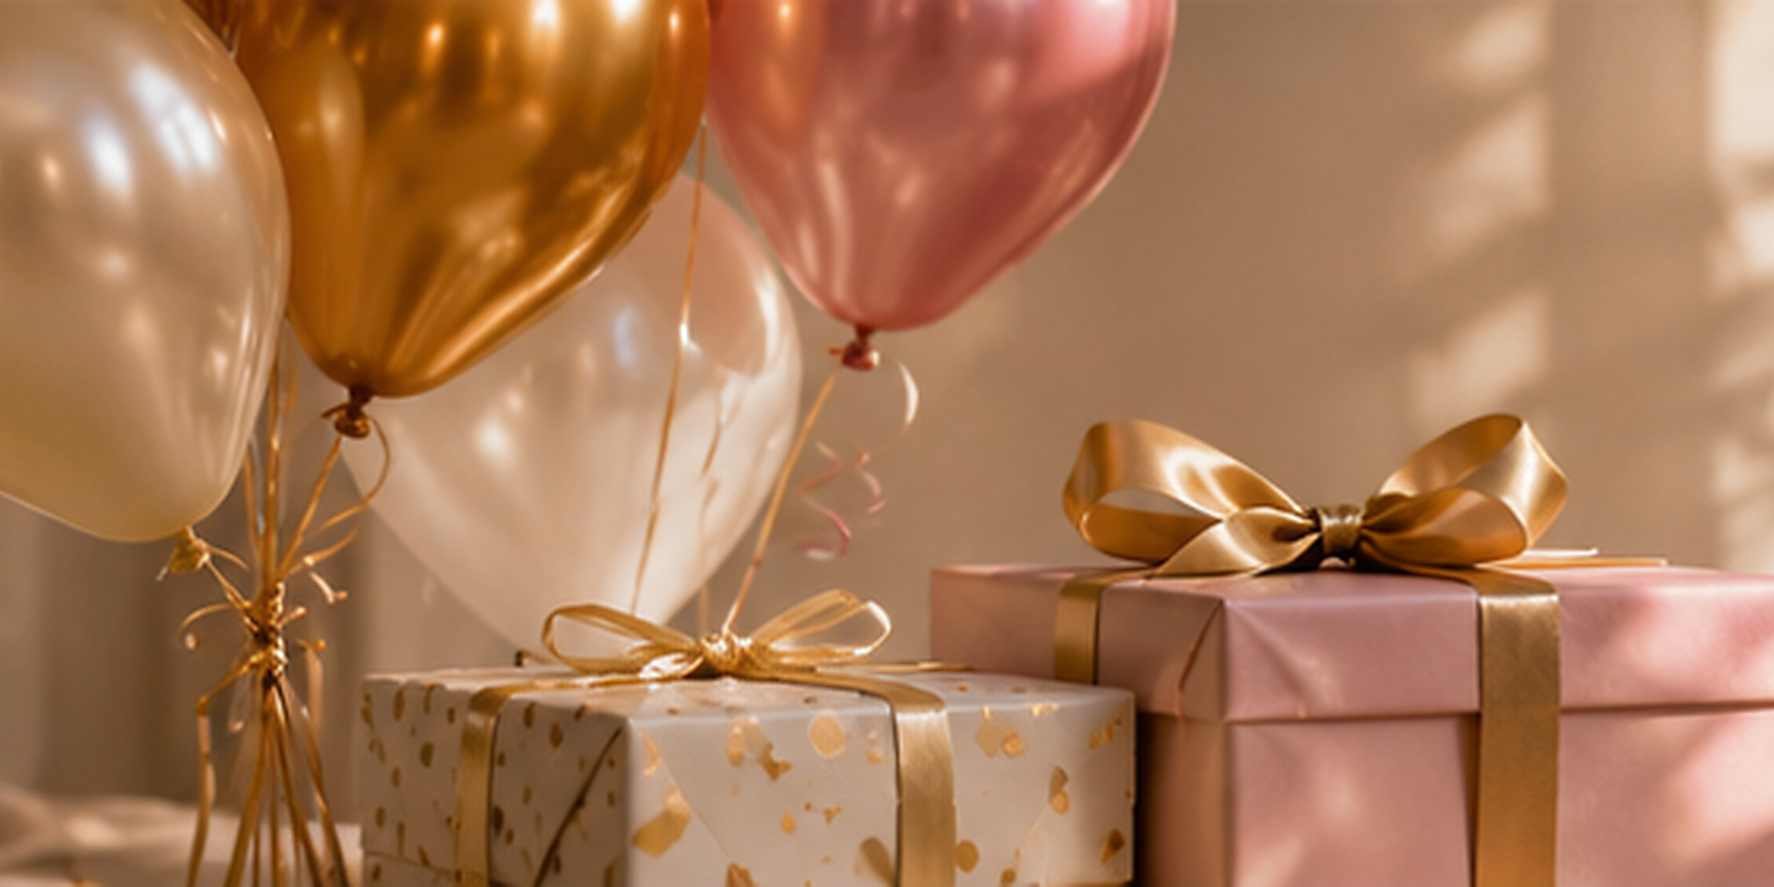
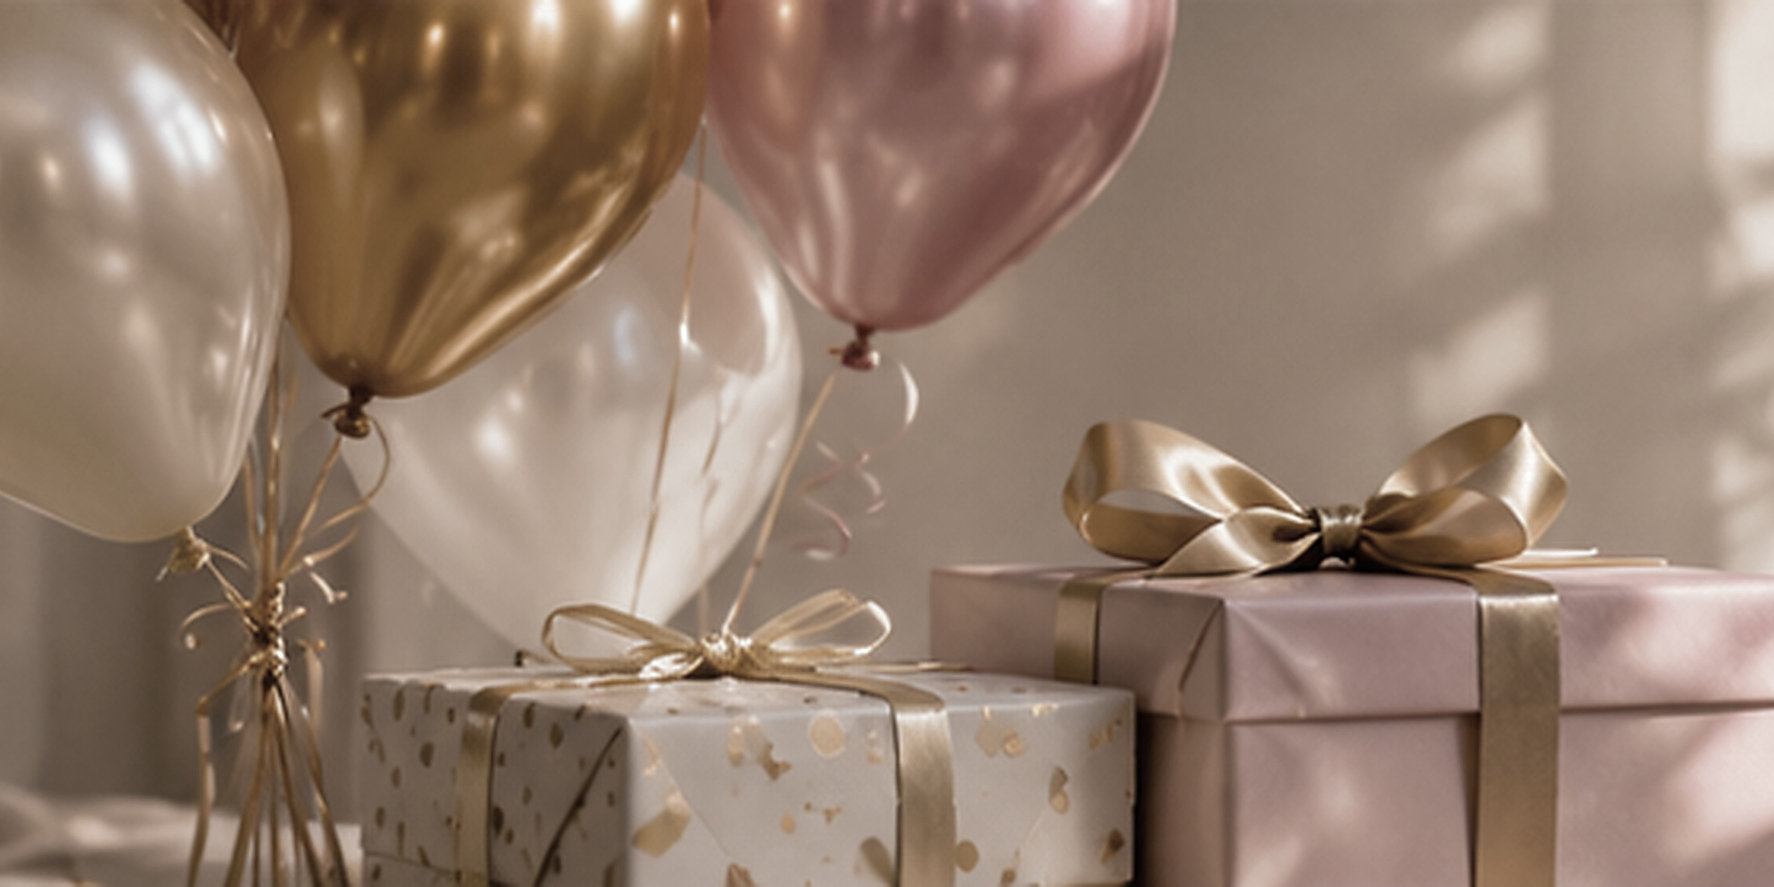
Fix full-bleed cover corners and rebalance event photos to 2:1 neutral presets (#41)
* Remove white corner slivers on full-bleed People and Event covers; match 2:1 photo geometry

* Refresh birthday and generic celebration with full-quality neutral event covers

* Replace generic celebration with smooth neutral photographic grading

* Regression: square outer cover corners and correctly proportioned photo heroes across phone widths

diff --git a/tests/app.spec.ts b/tests/app.spec.ts
@@ -1406,3 +1406,55 @@ test("Single-recipient occasions show person only beside gifts, not in overview"
     await expect(page.locator(".event-single-gifts .event-person-gifts-identity")).toHaveCount(1);
   }
 });
+
+
+test("Profile and event covers are edge-to-edge rectangles; event pictures fit the 2:1 hero", async ({ page }) => {
+  const data = fixture();
+  data.events[0].image = "";
+  data.events[1].image = "";
+  data.events[2].image = "";
+  data.events[2].name = "Housewarming party";
+  await seed(page, data);
+  for (const width of [320, 390, 430]) {
+    await page.setViewportSize({ width, height: 844 });
+    await page.goto("/#/people/p1");
+    const profile = await page.locator(".person-profile-cover").evaluate(el => {
+      const rect = el.getBoundingClientRect();
+      const shell = document.querySelector(".app-shell")!.getBoundingClientRect();
+      return {
+        radius: getComputedStyle(el).borderTopLeftRadius,
+        left: rect.left - shell.left,
+        width: rect.width - shell.width,
+      };
+    });
+    expect(profile.radius).toBe("0px");
+    expect(Math.abs(profile.left)).toBeLessThan(1);
+    expect(Math.abs(profile.width)).toBeLessThan(1);
+    for (const [id, kind] of [["e1","birthday"],["e2","winter"],["e3","celebration"]]) {
+      await page.goto(`/#/events/${id}`);
+      const cover = page.locator(".event-hero-image");
+      await expect(cover).toHaveAttribute("data-cover-kind", kind);
+      await expect.poll(() => cover.evaluate((el) => (el as HTMLImageElement).naturalWidth))
+        .toBeGreaterThanOrEqual(1500);
+      const geometry = await page.locator(".event-hero").evaluate(el => {
+        const photo = el.querySelector(".event-hero-image") as HTMLImageElement;
+        const rect = el.getBoundingClientRect();
+        const shell = document.querySelector(".app-shell")!.getBoundingClientRect();
+        return {
+          ratio: rect.width / rect.height,
+          radius: getComputedStyle(el).borderTopLeftRadius,
+          left: rect.left - shell.left,
+          width: rect.width - shell.width,
+          fit: getComputedStyle(photo).objectFit,
+          naturalRatio: photo.naturalWidth / photo.naturalHeight,
+        };
+      });
+      expect(geometry.radius).toBe("0px");
+      expect(geometry.ratio).toBeCloseTo(2, 1);
+      expect(geometry.naturalRatio).toBeCloseTo(2, 1);
+      expect(geometry.fit).toBe("cover");
+      expect(Math.abs(geometry.left)).toBeLessThan(1);
+      expect(Math.abs(geometry.width)).toBeLessThan(1);
+    }
+  }
+});

diff --git a/src/styles/event-overview-polish.css b/src/styles/event-overview-polish.css
@@ -252,3 +252,46 @@
   height: 32px;
   flex: 0 0 32px;
 }
+
+/* Full-bleed routes: photo edges are rectangular at the page boundary.
+   Only the overlapping white content sheet is rounded. */
+.app-main.app-main-event-detail,
+.app-main.app-main-profile {
+  border-radius: 0;
+}
+.event-detail-v2 .event-overview .event-hero,
+.person-detail .person-profile-cover {
+  border-radius: 0;
+}
+
+/* Covers are authored as individual 2:1 landscape photos. Their visible
+   canvas has the same aspect ratio at every breakpoint, so cover crops are
+   gentle rather than slicing off the subject on small phones. */
+.event-detail-v2 .event-overview .event-hero {
+  width: 100%;
+  aspect-ratio: 2 / 1;
+  height: auto;
+  min-height: 0;
+  max-height: none;
+}
+.event-detail-v2 .event-overview .event-hero .event-cover-frame,
+.event-detail-v2 .event-overview .event-hero .event-cover-frame > img.event-hero-image {
+  width: 100%;
+  height: 100%;
+  aspect-ratio: 2 / 1;
+}
+.event-detail-v2 .event-overview .event-hero .event-cover-frame > img.event-hero-image {
+  object-fit: cover;
+  object-position: center center;
+}
+@media (max-width: 359px) {
+  .event-detail-v2 .event-overview .event-hero {
+    height: auto;
+    min-height: 0;
+  }
+}
+@media (min-width: 680px) {
+  .event-detail-v2 .event-overview .event-hero {
+    height: auto;
+  }
+}
